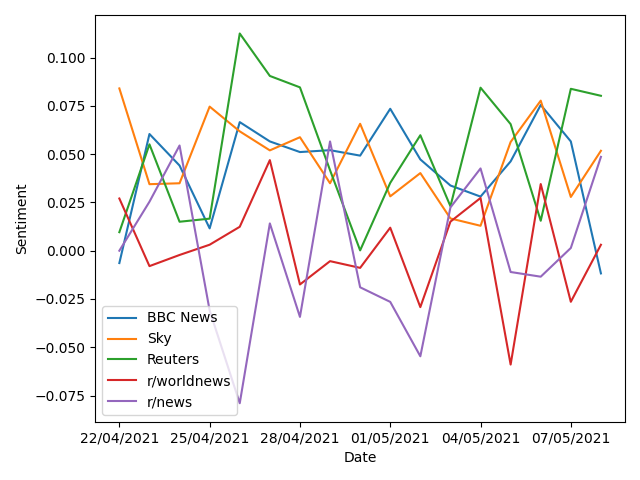
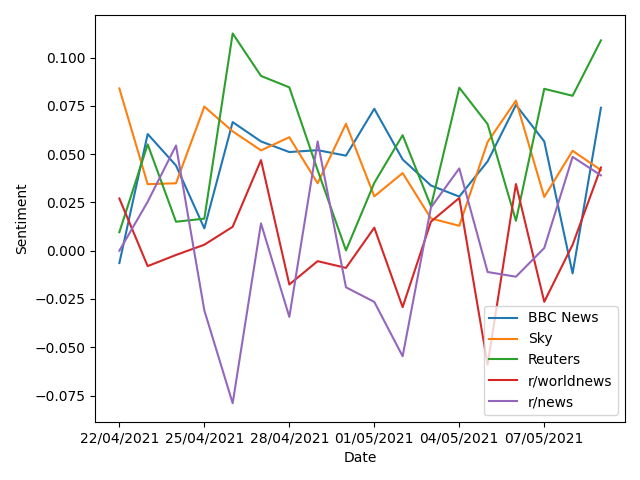
Automatic update (gitControl.py)

Changed region(s): [[0.1562, 0.0625, 0.9688, 0.9375], [0.9062, 0.0938, 0.9375, 0.1562]]

diff --git a/README.md b/README.md
@@ -3,7 +3,7 @@
 World news sentiment data, updated at 07:00 daily.
 
 **Started:** `22/04/2021`<br>
-**Updated:** `08/05/2021, 07:00:39`<br>
+**Updated:** `09/05/2021, 07:00:35`<br>
 **Sources:** `BBC News, Sky, Reuters, r/worldnews, r/news`
 
 <img src="https://user-images.githubusercontent.com/25552804/115932698-55adef00-a485-11eb-82bb-2265c0821ca0.png" width="20%" height="20%">

diff --git a/docs/index.md b/docs/index.md
@@ -3,7 +3,7 @@
 World news sentiment data, updated at 07:00 daily.
 
 **Started:** `22/04/2021`<br>
-**Updated:** `08/05/2021, 07:00:39`<br>
+**Updated:** `09/05/2021, 07:00:35`<br>
 **Sources:** `BBC News, Sky, Reuters, r/worldnews, r/news`
 
 <img src="https://user-images.githubusercontent.com/25552804/115932698-55adef00-a485-11eb-82bb-2265c0821ca0.png" width="20%" height="20%">
